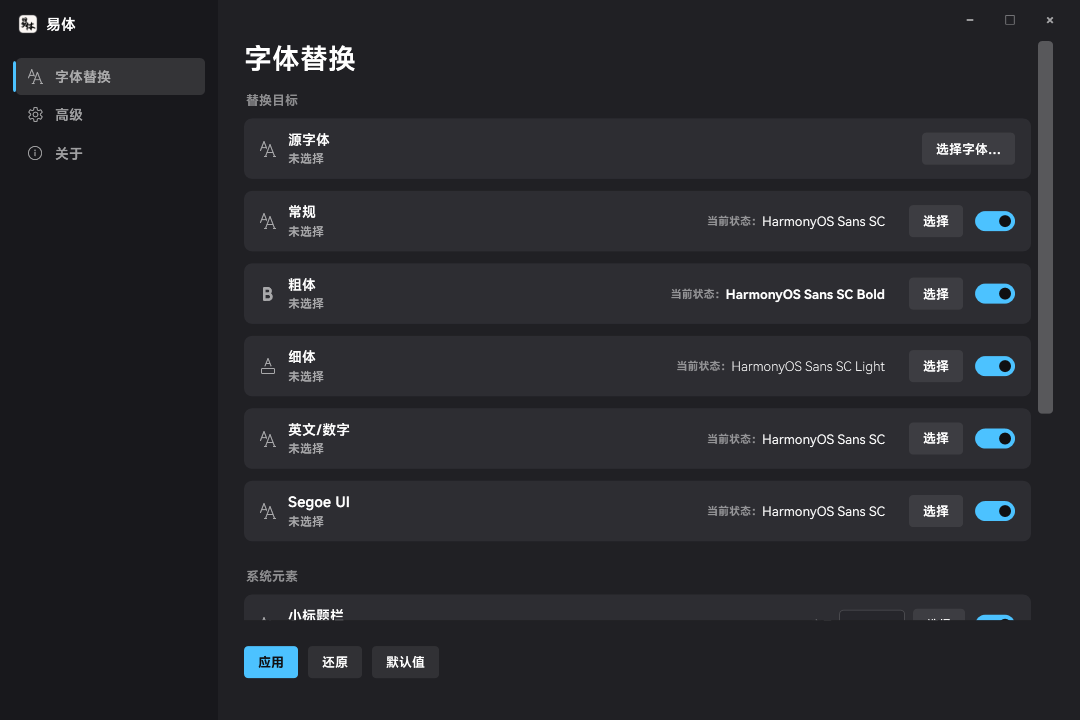
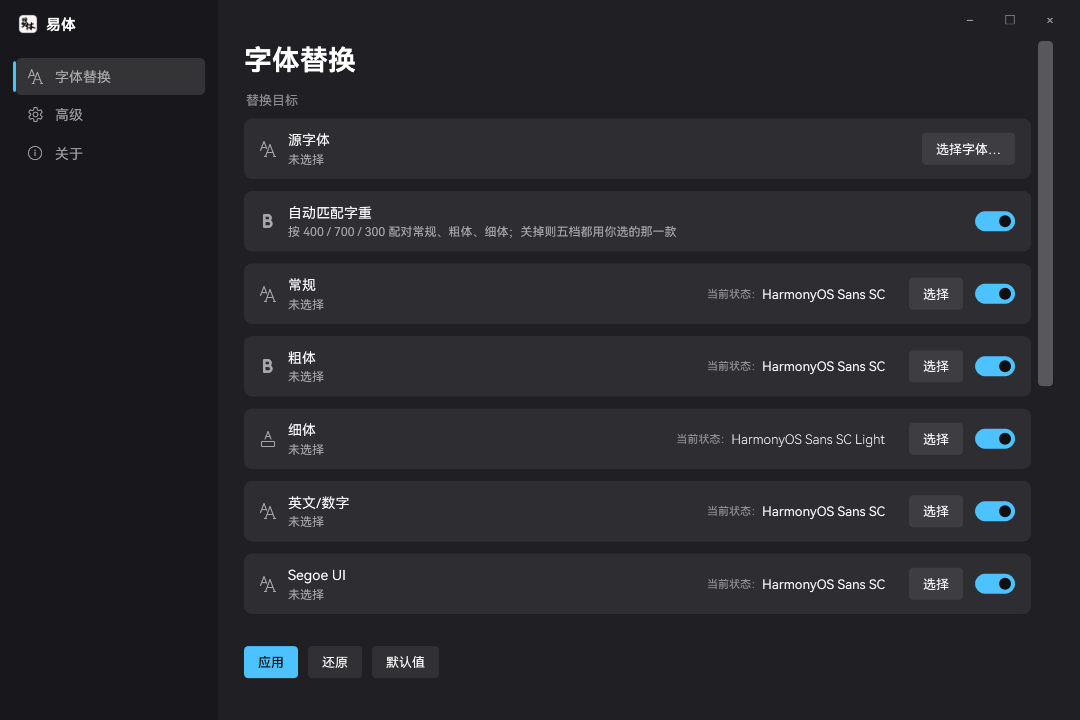
chore(ui): move the auto-weight switch from Advanced to the font page (below Source font)

diff --git a/wpf/MainWindow.cs b/wpf/MainWindow.cs
@@ -760,6 +760,13 @@ namespace WinFontSwap.Wpf
             stack.Children.Add(T.Row("\uE8D2", L.T("源字体"), L.T("未选择"), pickBtn, out pickDesc));
             _pickDesc = pickDesc;
 
+            // 自动匹配字重：放在源字体正下方，和它的行为直接相关
+            TextBlock weightDesc;
+            var weightSw = T.Switch(_advAutoWeightOn);
+            weightSw.Click += delegate { _advAutoWeightOn = weightSw.IsChecked == true; };
+            _advAutoWeight = weightSw;
+            stack.Children.Add(T.Row("\uE8DD", L.T("自动匹配字重"), L.T("按 400 / 700 / 300 配对常规、粗体、细体；关掉则五档都用你选的那一款"), weightSw, out weightDesc));
+
             string[] names = { L.T("常规"), L.T("粗体"), L.T("细体"), L.T("英文数字"), "Segoe UI" };
             string[] glyphs = { "\uE8D2", "\uE8DD", "\uE8D3", "\uE8D2", "\uE8D2" };
             for (int i = 0; i < 5 && i < Installer.TargetFiles.Length; i++)
@@ -907,11 +914,6 @@ namespace WinFontSwap.Wpf
             stack.Children.Add(T.Label(L.T("高级"), 28, T.Text, true));
             stack.Children.Add(new Border { Height = 16 });
 
-            TextBlock advDescWeight;
-            var weightSw = T.Switch(_advAutoWeightOn);
-            weightSw.Click += delegate { _advAutoWeightOn = weightSw.IsChecked == true; };
-            _advAutoWeight = weightSw;
-            stack.Children.Add(T.Row("\uE8D2", L.T("自动匹配字重"), L.T("按 400 / 700 / 300 配对常规、粗体、细体；关掉则五档都用你选的那一款"), weightSw, out advDescWeight));
 
             TextBlock advDesc1;
             var cacheSw = T.Switch(_advCacheOn);
